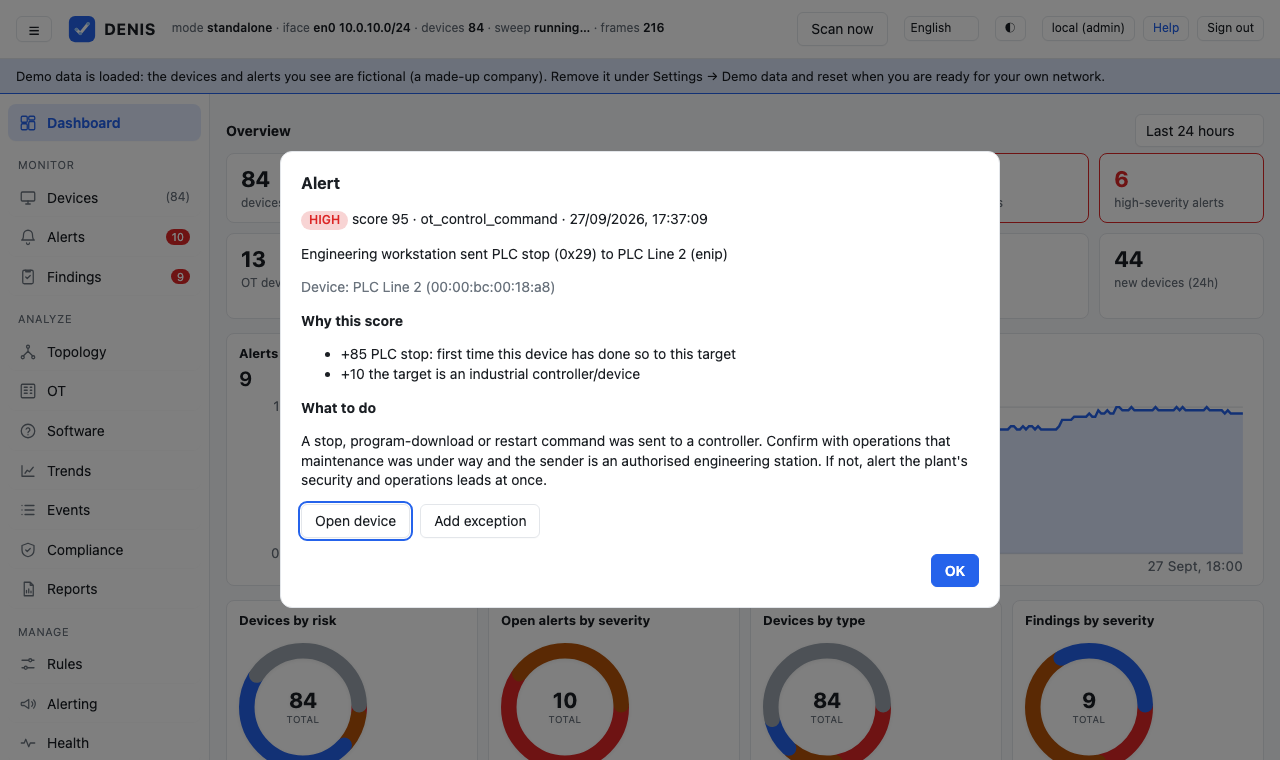
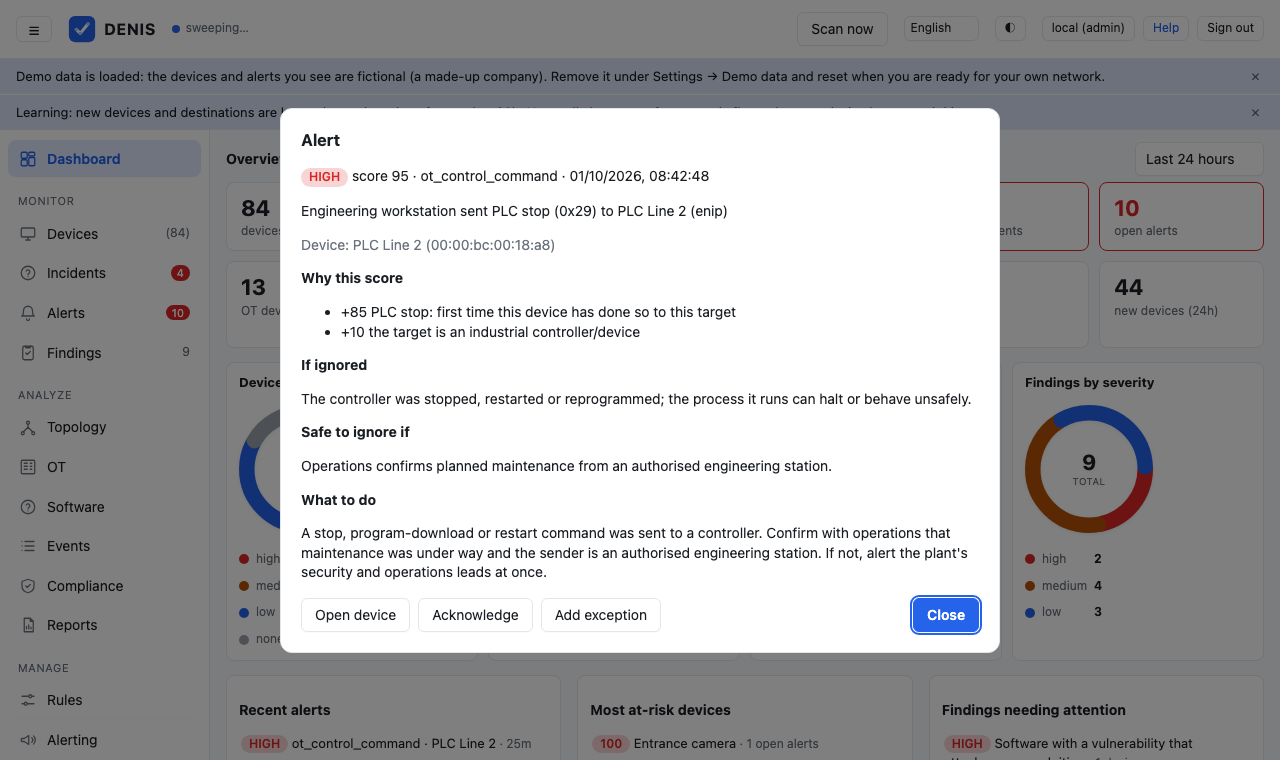
Update docs screenshots for 3.0.0 and add CHANGELOG entry
The alert/incident dialog screenshots were still showing the old "OK"
dismiss button on its own row; the dialog now groups Open device/
Acknowledge/Add exception on the left with "Close" alone on the right,
on the same row. Regenerated all docs/img/*.png against a live 3.0.0
build with demo data for consistency, and added docs/img/incidents.png
for the new Incidents screen.

Also extends the CHANGELOG's 3.0.0 entry with the incident-correlator
and orphaned-incident-cleanup fixes that shipped as pre-3.0.0 release
blockers.

diff --git a/CHANGELOG.md b/CHANGELOG.md
@@ -23,8 +23,12 @@ the binary and the GitHub Release page for that version.
 * **Clearer Topology and alerts**: icon-based, risk-coloured device chips with click-to-select on
   the network map; the separate "Explain"/"Assess"/"Recommend" AI buttons on an alert are now one
   "Assess & Explain with AI" button.
-* Smaller fixes: clearer Devices CSV export naming, better Dashboard spacing, reordered Settings
-  navigation, and more.
+* **More reliable Incidents.** Fixed a case where an alert could be grouped into the wrong open
+  Incident; and deleting a device, a site, or your whole inventory now also cleans up the
+  Incidents that referenced it, instead of leaving orphaned entries behind.
+* Smaller fixes: the "Close" button on alert and incident dialogs is clearer about what it does
+  and sits with the other action buttons instead of on its own row, clearer Devices CSV export
+  naming, better Dashboard spacing, reordered Settings navigation, and more.
 
 ## 2.x series
 
